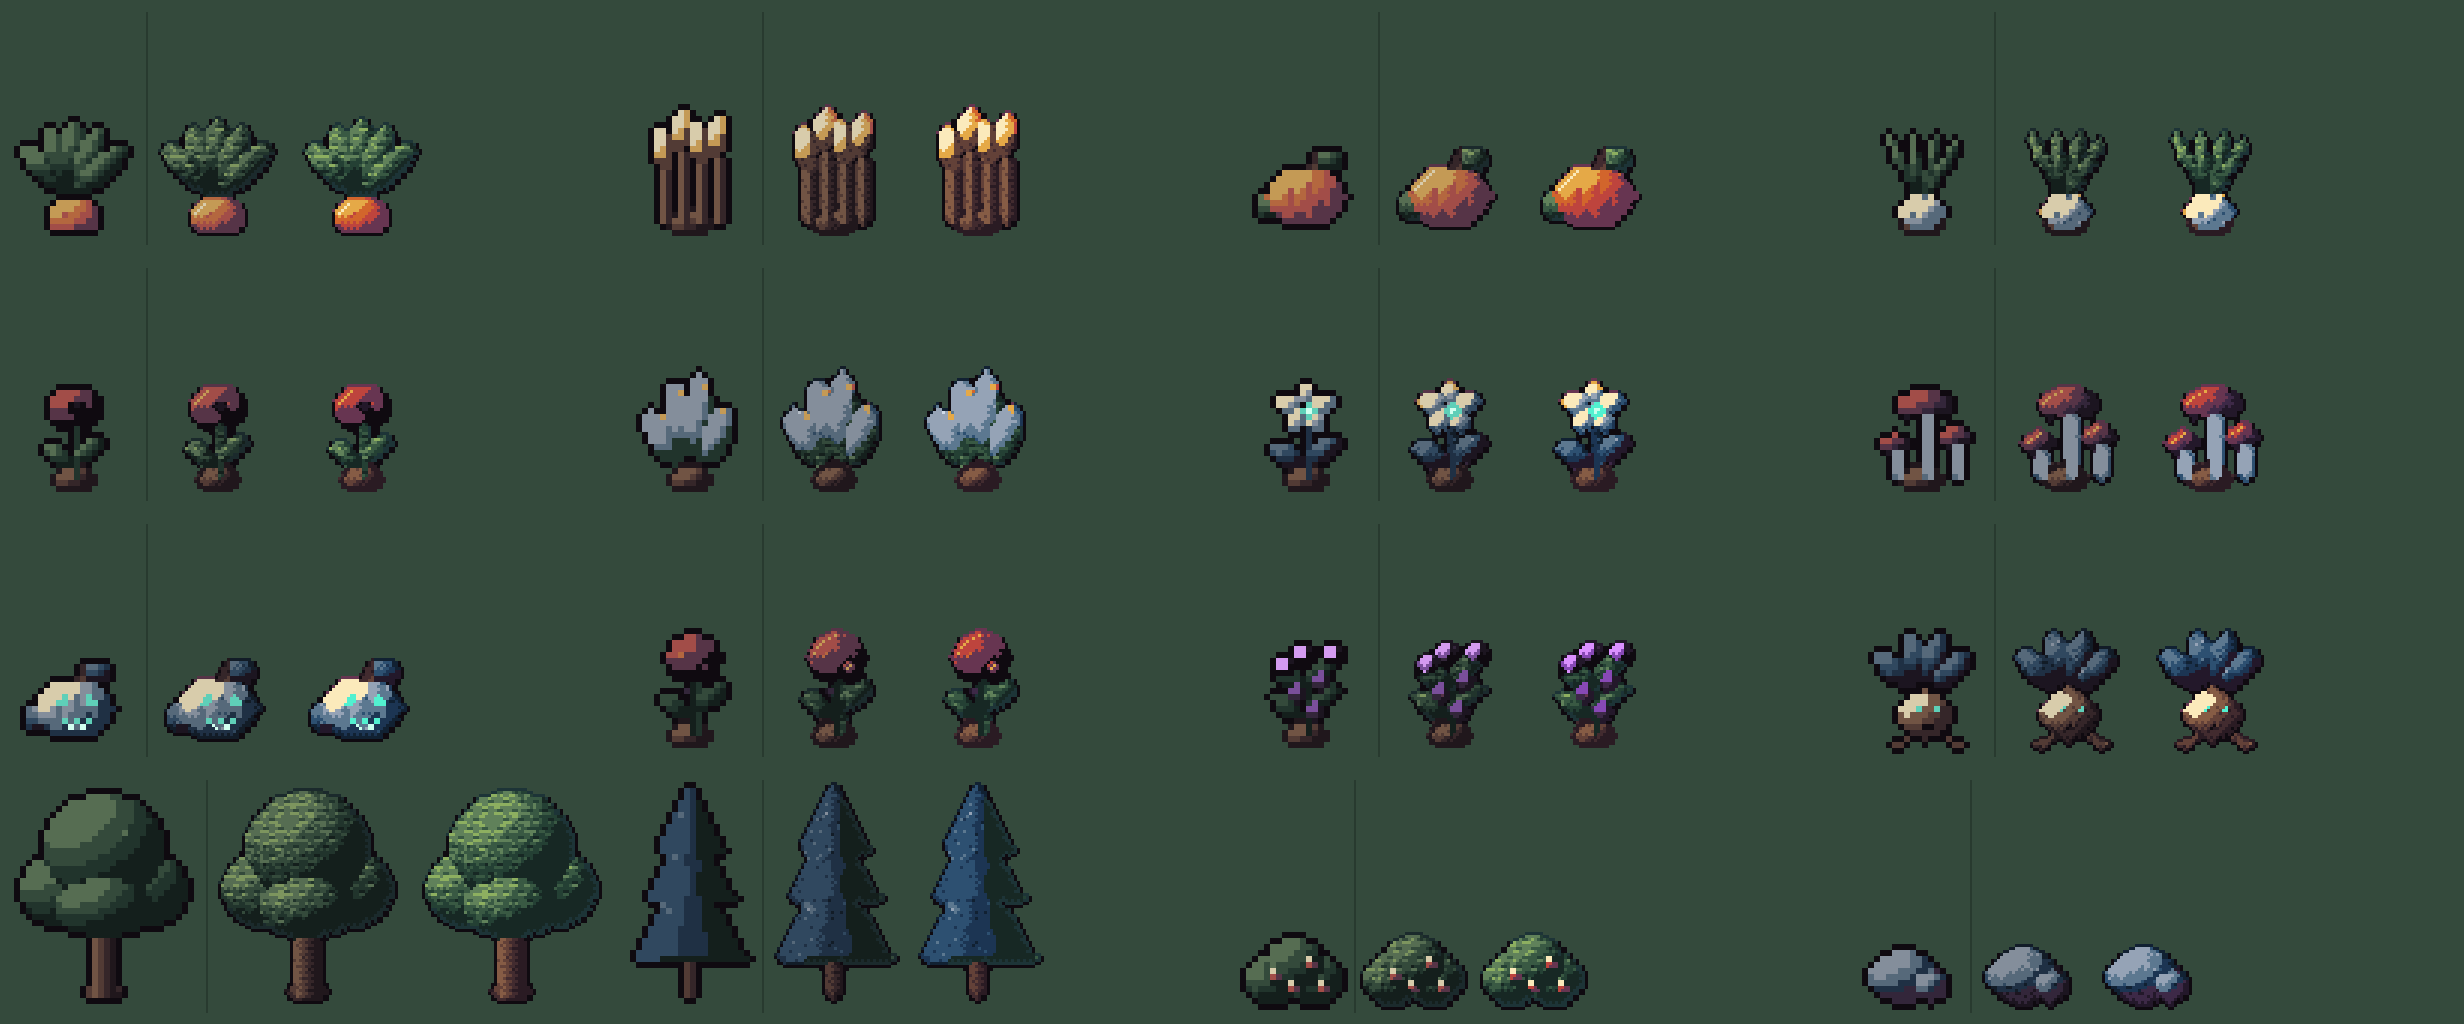
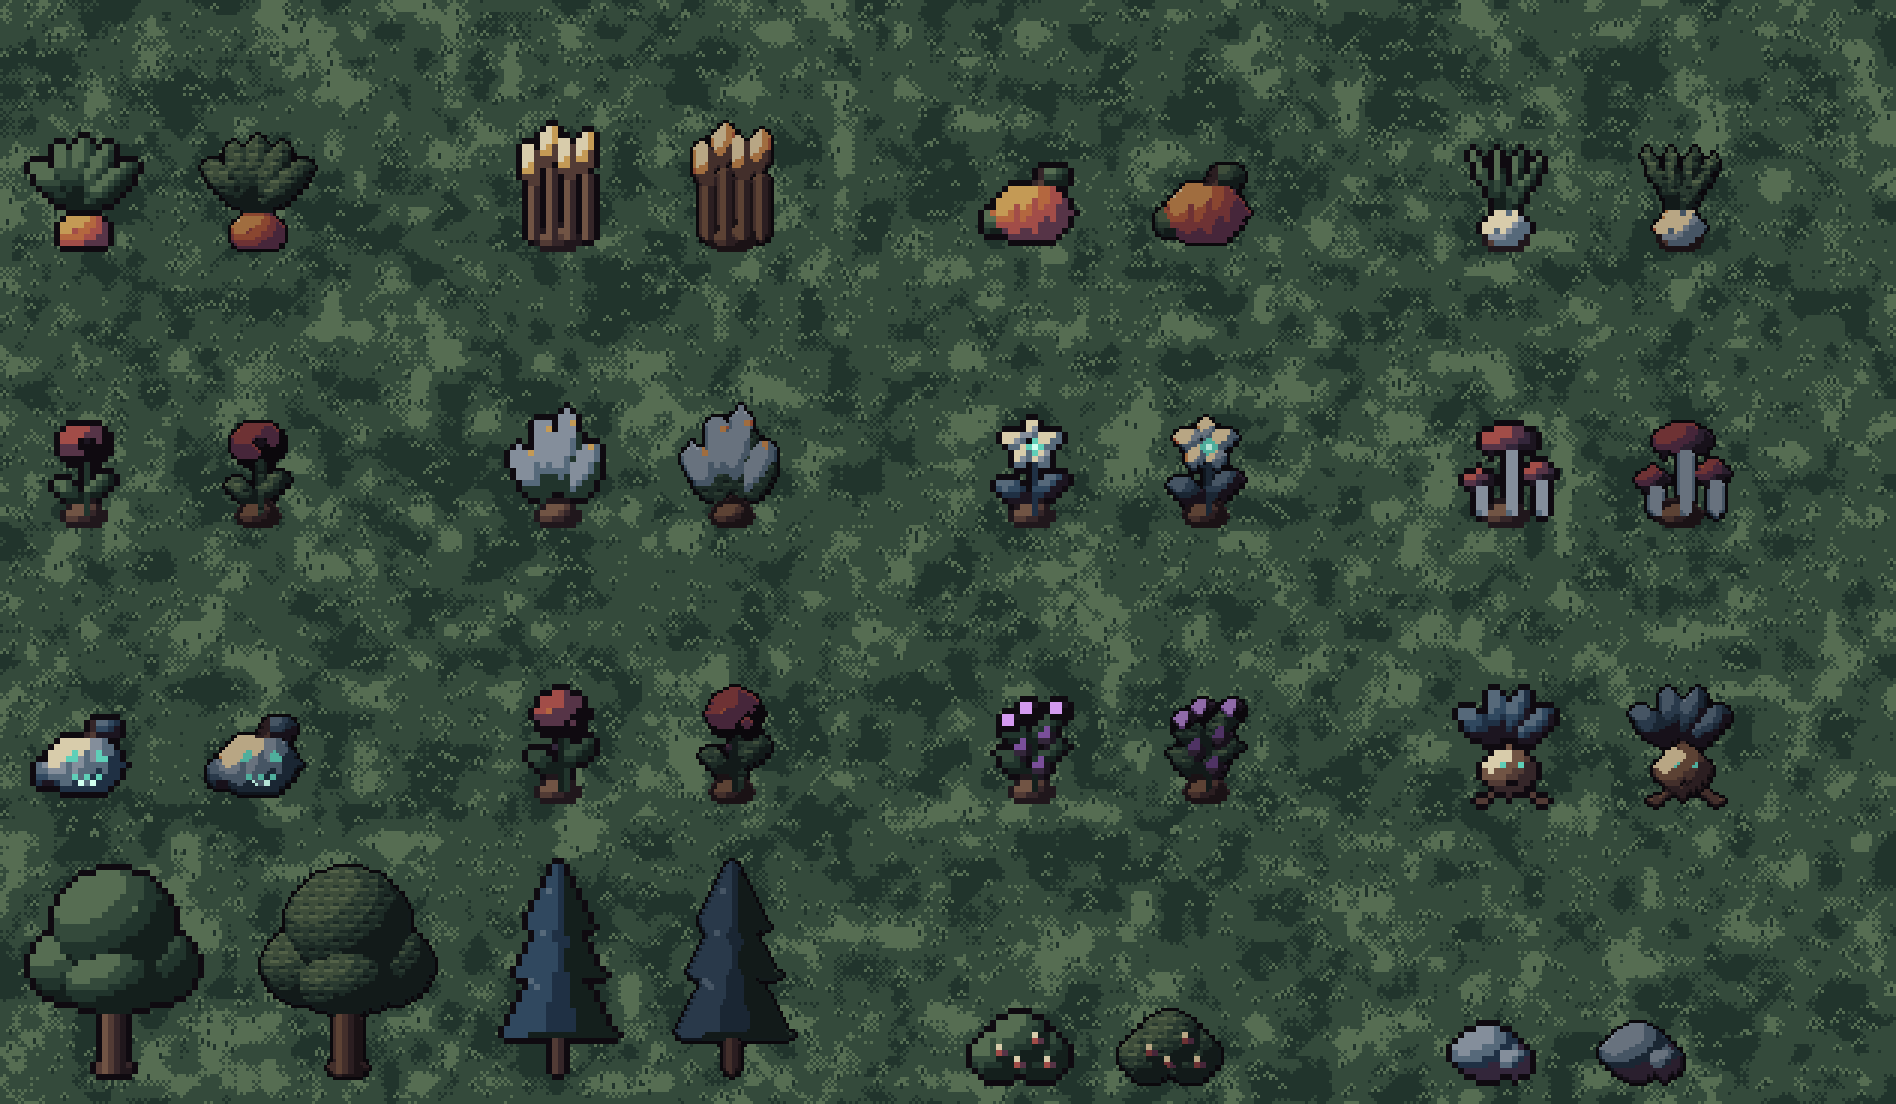
Etap 7: rośliny 32 px w trybie pixel art (crisp) i palecie dark fantasy
Uwaga gracza: „bardziej pixel art niż anime”, kolory bardziej dark fantasy.
crisp: bez ditheringu przejść, losowych plamek i odblasków, czarny kontur,
równe łuski liści. Paleta DARK_FANTASY: chłodniej, mniej nasycenia, oliwkowa
zieleń, rdzawe pomarańcze. Podgląd na trawie z próbki terenu.

diff --git a/tools/art32/rosliny_preview.py b/tools/art32/rosliny_preview.py
@@ -1,27 +1,25 @@
-"""Przed / po: obecne rośliny i obiekty 16 px (powiększone x2), wersja 32 px z hd2x i ta sama w żywszych kolorach.
+"""Rośliny i obiekty 32 px na trawie z próbki terenu: obecne 16 px (powiększone) | 32 px, pixel art, paleta dark fantasy.
 Uruchom:  python3 tools/art32/rosliny_preview.py  → docs/img/art32_rosliny.png
 """
 import os, sys
 HERE = os.path.dirname(os.path.abspath(__file__))
 sys.path.insert(0, HERE)
 sys.path.insert(0, os.path.join(HERE, "..", "pixel-proto"))
-from PIL import Image, ImageDraw
+import numpy as np
+from PIL import Image
 import sprites
 import sprites3 as S3
 import sprites6 as S6
-from hd2x import hd2x, to_image, EXTRA_COLORS, hexrgb
+from hd2x import hd2x, to_image, grid_of, EXTRA_COLORS, DARK_FANTASY, hexrgb
+from px import value_noise, bayer
 
 RGB = dict(sprites.RGB)
 for k, v in EXTRA_COLORS.items():
     RGB[k] = hexrgb(v)
+DF = dict(RGB)
+for k, v in DARK_FANTASY.items():
+    DF[k] = hexrgb(v)
 ROOT = os.path.abspath(os.path.join(HERE, "..", ".."))
-import colorsys
-VIVID = {}
-for k, (r, g, b) in RGB.items():   # żywsze rośliny: więcej nasycenia i jasności poza konturem i najciemniejszymi tonami
-    hh, ss, vv = colorsys.rgb_to_hsv(r / 255, g / 255, b / 255)
-    if k not in ('o',) and vv > 0.12:
-        ss, vv = min(1, ss * 1.22), min(1, vv * 1.14 + 0.02)
-    VIVID[k] = tuple(int(round(c * 255)) for c in colorsys.hsv_to_rgb(hh, ss, vv))
 
 items = [
     ("marchew", lambda: sprites.carrot(3)), ("zboże", lambda: sprites.wheat(3)), ("dynia", lambda: sprites.pumpkin(3)),
@@ -31,25 +29,41 @@ items = [
     ("drzewo", sprites.round_tree), ("świerk", sprites.spruce), ("krzak", sprites.bush), ("kamień", sprites.rock),
 ]
 SC = 3
-tiles = []
+
+
+def grass(w, h, seed):
+    """Trawa jak w próbce terenu (g1/g2/g3 w płatach + kępki), w kolorach gry."""
+    n = value_noise(h, w, 10, seed)
+    bay = bayer(h, w)
+    keys = np.where(n + (bay - 0.5) * 0.12 < 0.38, 'g1', np.where(n + (bay - 0.5) * 0.12 > 0.66, 'g3', 'g2'))
+    arr = np.zeros((h, w, 3), np.uint8)
+    for k in ('g1', 'g2', 'g3'):
+        arr[keys == k] = RGB[k]
+    rng = np.random.default_rng(seed)
+    for _ in range(w * h // 60):
+        x, y = rng.integers(1, w - 1), rng.integers(0, h - 3)
+        arr[y, x] = RGB['g3']; arr[y + 1, x - 1] = RGB['g3']; arr[y + 1, x + 1] = RGB['g3']
+        arr[y + 1, x] = RGB['g1']; arr[y + 2, x] = RGB['g1']
+    return Image.fromarray(arr, 'RGB').convert('RGBA')
+
+
+cells = []
 for i, (name, fn) in enumerate(items):
     spr = fn()
-    from hd2x import grid_of
-    before = to_image(grid_of(spr), RGB).resize((spr.w * 2 * SC, spr.h * 2 * SC), Image.NEAREST)
-    after = to_image(hd2x(spr, RGB, seed=i + 1), RGB, SC)
-    tiles.append((before, after, to_image(hd2x(spr, VIVID, seed=i + 1), VIVID, SC)))
+    before = to_image(grid_of(spr), RGB)
+    before = before.resize((before.width * 2, before.height * 2), Image.NEAREST)
+    after = to_image(hd2x(spr, DF, seed=i + 1, crisp=True), DF)
+    cells.append((before, after))
 cols = 4
-cw = max(b.width + a.width + v.width + 24 for b, a, v in tiles) + 16
-ch = max(max(b.height, a.height) for b, a, v in tiles) + 16
-rows = (len(tiles) + cols - 1) // cols
-sheet = Image.new('RGBA', (cols * cw, rows * ch), (52, 74, 60, 255))   # tło jak trawa
-d = ImageDraw.Draw(sheet)
-for i, (b, a, v) in enumerate(tiles):
-    x, y = (i % cols) * cw + 8, (i // cols) * ch + 8
-    sheet.alpha_composite(b, (x, y + ch - 16 - b.height))
-    sheet.alpha_composite(a, (x + b.width + 12, y + ch - 16 - a.height))
-    sheet.alpha_composite(v, (x + b.width + a.width + 24, y + ch - 16 - v.height))
-    d.line([(x + b.width + 6, y + 4), (x + b.width + 6, y + ch - 20)], fill=(40, 58, 47), width=2)
+cw = max(b.width + a.width for b, a in cells) + 30
+ch = max(max(b.height, a.height) for b, a in cells) + 12
+rows = (len(cells) + cols - 1) // cols
+bg = grass(cols * cw, rows * ch, 5)
+for i, (b, a) in enumerate(cells):
+    x, y = (i % cols) * cw + 6, (i // cols) * ch + 4
+    bg.alpha_composite(b, (x, y + ch - 8 - b.height))
+    bg.alpha_composite(a, (x + b.width + 14, y + ch - 8 - a.height))
+sheet = bg.resize((bg.width * SC, bg.height * SC), Image.NEAREST)
 out = os.path.join(ROOT, 'docs', 'img', 'art32_rosliny.png')
 sheet.save(out)
 print('ok', sheet.size)

diff --git a/tools/art32/hd2x.py b/tools/art32/hd2x.py
@@ -22,6 +22,17 @@ RAMPS = [
     ['wi', 'wl'],
     ['fx', 'fl'],
 ]
+# paleta dark fantasy dla roślin i obiektów (uwaga gracza: kolory bardziej mroczne): chłodniej, mniej nasycenia,
+# zieleń w stronę oliwki i szarości, pomarańcz w rdzę, jasne szczyty przygaszone
+DARK_FANTASY = {
+    'o': '#0b080c', 'gs': '#121a1b',
+    'g0': '#121a19', 'g1': '#1c2a25', 'g2': '#2a3a30', 'g3': '#3e4d3a', 'g4': '#536147',
+    'e0': '#1a1215', 'e1': '#2b1e21', 'e2': '#432f2b', 'e3': '#5c4234', 'e4': '#735540',
+    'p0': '#17111a', 'p1': '#2a1f2e', 'p2': '#46263a',
+    'co': '#6e3234', 'or': '#8a4630', 'go': '#a06d3f', 'cr': '#b8a684',
+    'b0': '#0f151d', 'b1': '#1a2633', 'b2': '#29394a', 'b3': '#465564', 'fo': '#68727e', 'b4': '#868e98',
+    'mu': '#4f3364', 'ml': '#8f6aa8', 'wi': '#4fae9c', 'wl': '#b4e3d6', 'fx': '#c8702f', 'fl': '#e8c071',
+}
 EXTRA_COLORS = {'g4': '#7d955e', 'e4': '#8d6c55', 'b4': '#b6bec7', 'gs': '#1b2a2c'}
 
 
@@ -69,8 +80,10 @@ def lum(rgb, k):
     return 0.3 * r + 0.59 * g + 0.11 * b
 
 
-def hd2x(spr, rgb, seed=1, texture=True):
-    """Zwraca siatkę kluczy 2x z detalem (lista wierszy, None = przezroczysty)."""
+def hd2x(spr, rgb, seed=1, texture=True, crisp=False):
+    """Zwraca siatkę kluczy 2x z detalem (lista wierszy, None = przezroczysty).
+    crisp=True (uwaga gracza: „bardziej pixel art niż anime”): bez ditheringu przejść, bez losowych plamek i odblasków,
+    czarny kontur bez selout, liście jako równe łuski - czyste plamy koloru."""
     rnd = np.random.default_rng(seed)
     up, down = build_steps(rgb)
     g = scale2x(grid_of(spr))
@@ -104,6 +117,12 @@ def hd2x(spr, rgb, seed=1, texture=True):
                 continue
             ul = [get(x - 1, y), get(x, y - 1)]
             dr = [get(x + 1, y), get(x, y + 1)]
+            if crisp:
+                if (get(x, y - 1) is None or get(x, y - 1) in OUT) and get(x, y + 1) not in (None,) + OUT:
+                    g3[y][x] = up.get(k, k)
+                elif (get(x, y + 1) is None or get(x, y + 1) in OUT) and get(x, y - 1) not in (None,) + OUT:
+                    g3[y][x] = down.get(k, k)
+                continue
             if any(n is None or n in OUT for n in ul) and not any(n is None or n in OUT for n in dr):
                 g3[y][x] = up.get(k, k)
             elif any(n is None or n in OUT for n in dr) and not any(n is None or n in OUT for n in ul):
@@ -119,7 +138,7 @@ def hd2x(spr, rgb, seed=1, texture=True):
                 continue
             for dx, dy in ((1, 0), (0, 1)):
                 n = get(x + dx, y + dy)
-                if n and n != k and up.get(n) == k and (x + y) % 2 == 0:
+                if not crisp and n and n != k and up.get(n) == k and (x + y) % 2 == 0:
                     g4[y][x] = n
                     break
     g = g4
@@ -135,13 +154,13 @@ def hd2x(spr, rgb, seed=1, texture=True):
                     continue
                 off = 2 if (y // 3) % 2 else 0
                 u, v = (x + off) % 5, y % 3
-                if v == 0 and u in (1, 2, 3) and rnd.random() < 0.85:
+                if v == 0 and u in (1, 2, 3) and (crisp or rnd.random() < 0.85):
                     g[y][x] = up[k]
                 elif v == 2 and u in (0, 4):
                     g[y][x] = down[k]
 
     # 5. faktura
-    if texture:
+    if texture and not crisp:
         greens = {'g1', 'g2', 'g3'}
         woods = {'e1', 'e2', 'e3'}
         stones = {'b1', 'b2', 'b3', 'p1'}
@@ -164,6 +183,8 @@ def hd2x(spr, rgb, seed=1, texture=True):
                 if k in fruit and g[y - 1][x] in ('o', None) and g[y][x - 1] in ('o', None) and up.get(k, k) != k:
                     g[y + 1][x + 1] = up[up[k]] if up.get(up[k]) else up[k]
     # 6. kontur zależny od światła: od lewej-góry ciemny kolor rampy zamiast czerni (selout), od prawej-dołu czerń
+    if crisp:
+        return g
     g6 = [row[:] for row in g]
     for y in range(h):
         for x in range(w):
